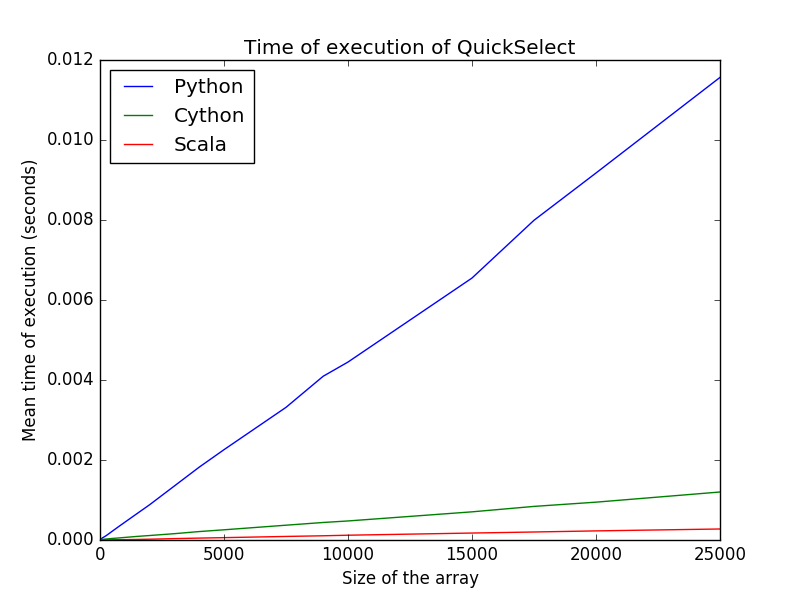
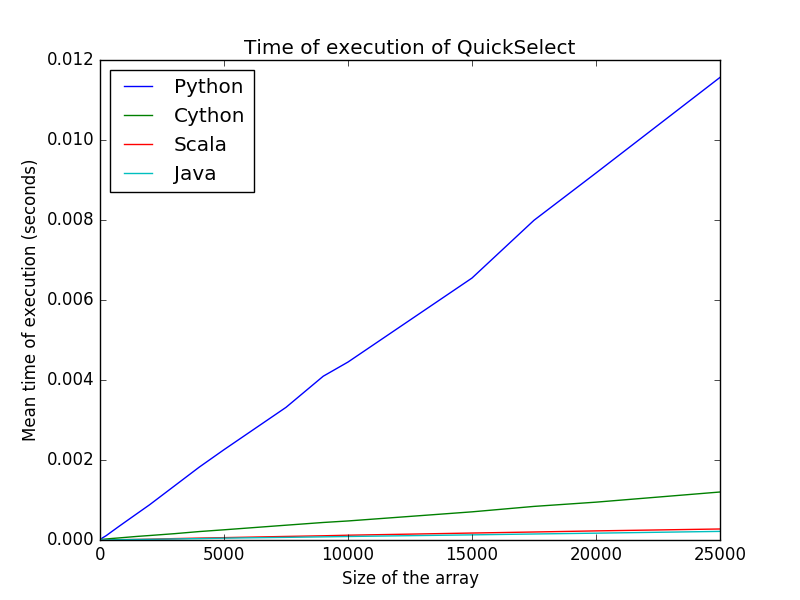
Adding java to benchmarks

Changed region(s): [[0.1562, 0.87, 0.9062, 0.9], [0.125, 0.27, 0.3438, 0.33]]

diff --git a/benchmark.py b/benchmark.py
@@ -15,10 +15,13 @@ def retreiving_benchmarks(file_name):
 python_benchmarks = retreiving_benchmarks("python/benchmark_results.txt")
 cython_benchmarks = retreiving_benchmarks("cython/benchmark_results.txt")
 scala_benchmarks = retreiving_benchmarks("scala/benchmark_results.txt")
+java_benchmarks = retreiving_benchmarks("java/benchmark_results.txt")
 
 plt.plot(python_benchmarks[0], python_benchmarks[1], label="Python")
 plt.plot(cython_benchmarks[0], cython_benchmarks[1], label="Cython")
 plt.plot(scala_benchmarks[0], scala_benchmarks[1], label="Scala")
+plt.plot(java_benchmarks[0], java_benchmarks[1], label="Java")
+
 plt.legend(loc=0)
 plt.title("Time of execution of QuickSelect")
 plt.xlabel("Size of the array")
